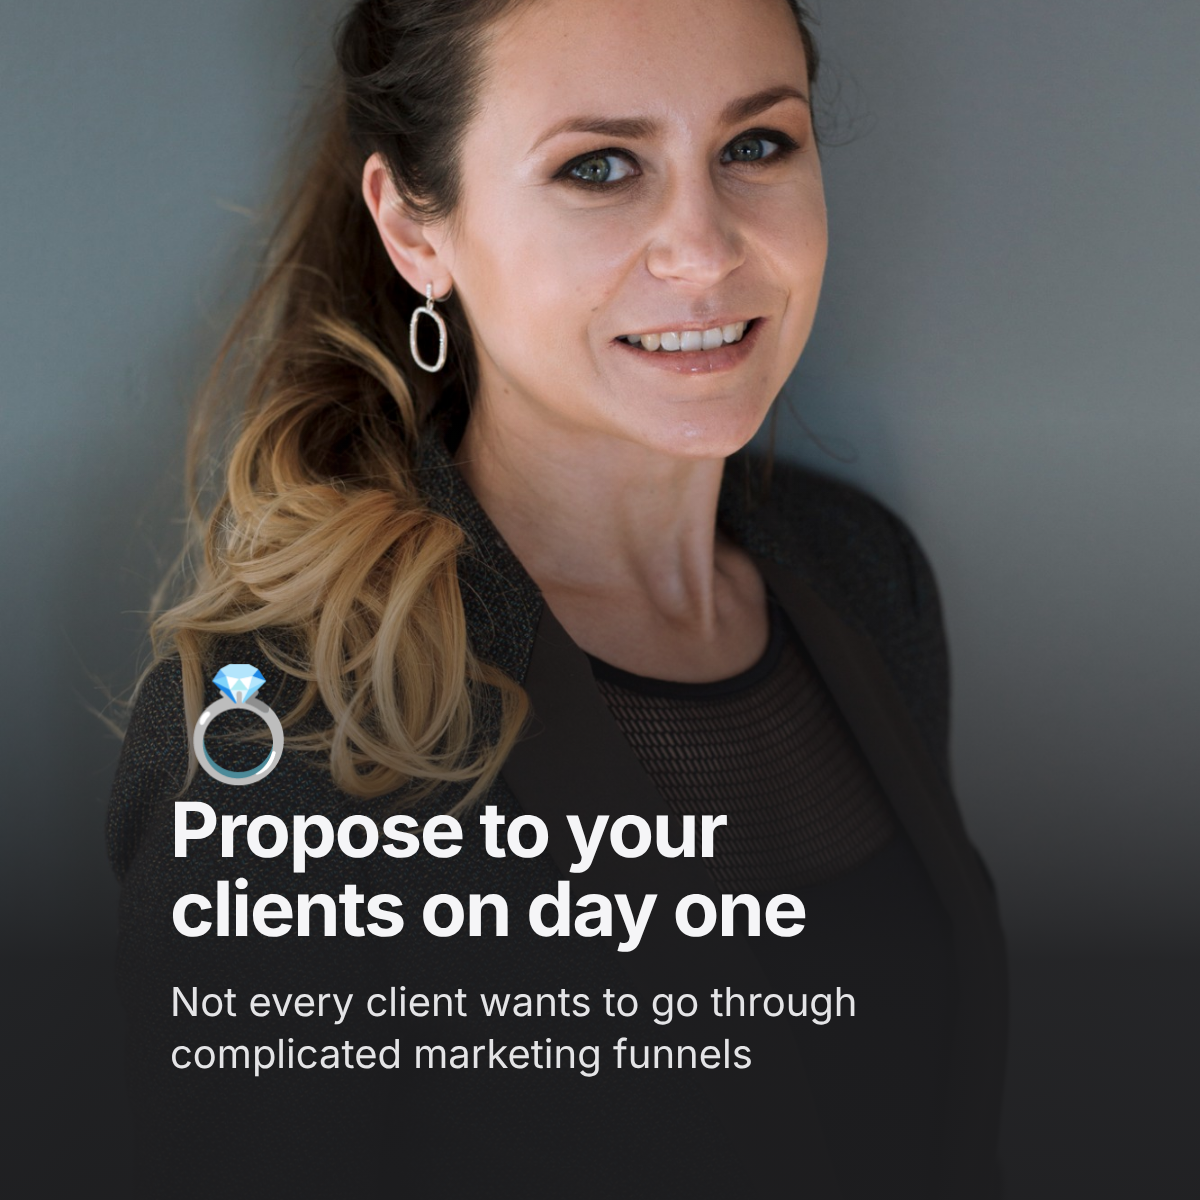
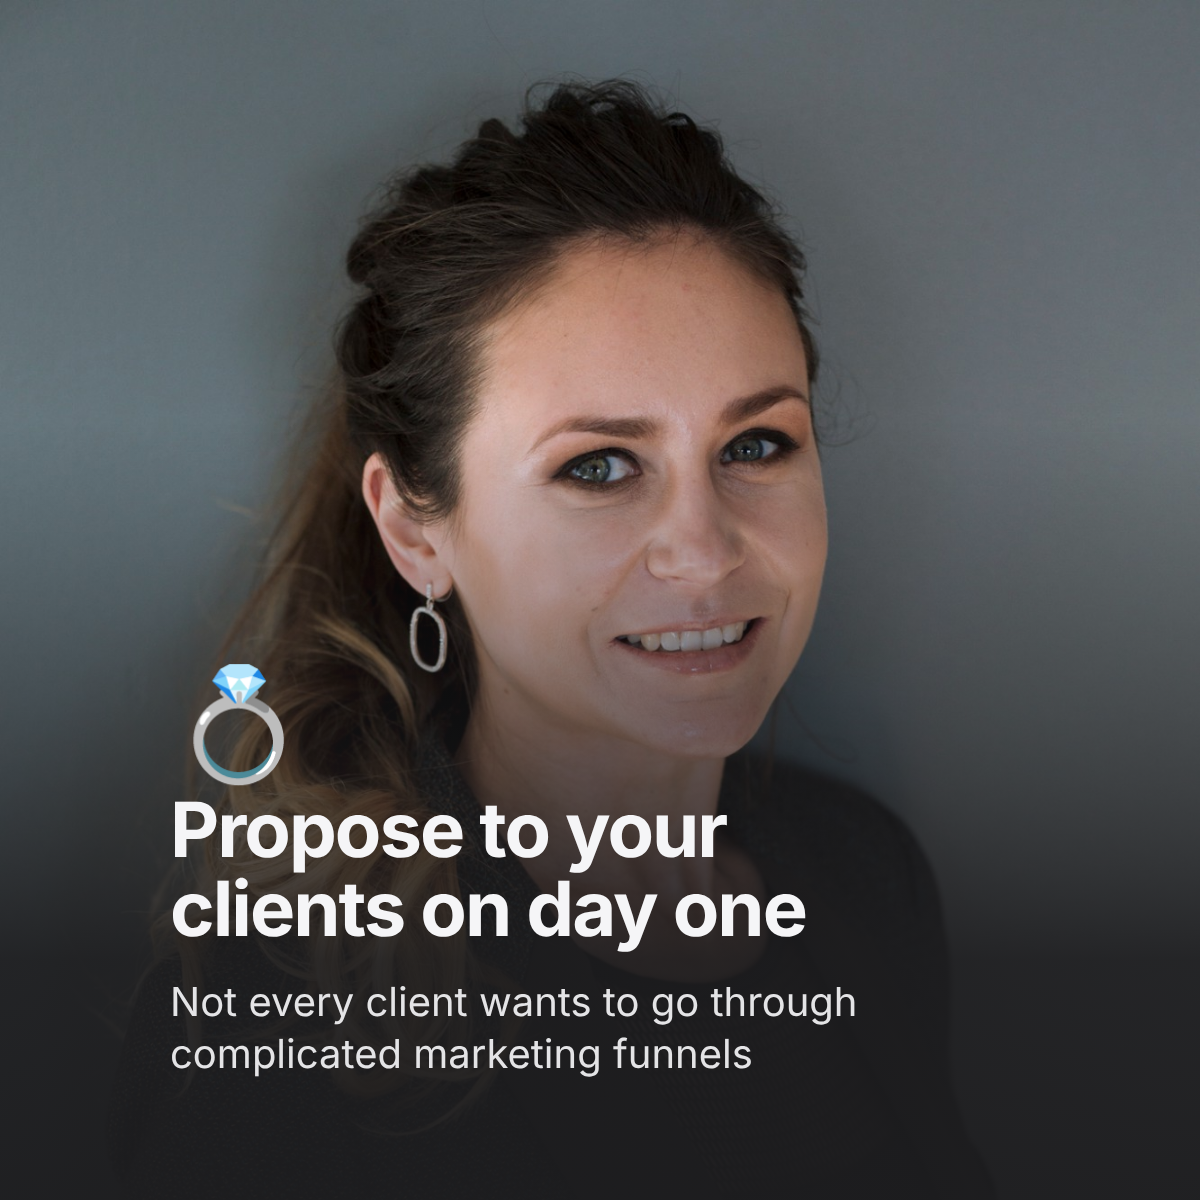
LinkedIn cover: photo aligned to top so the head is fully visible
Claude-Session: https://claude.ai/code/session_01BfJAaEZY2EfD7nu2Y1Q1pB

diff --git a/brand/zimols/render.js b/brand/zimols/render.js
@@ -60,7 +60,7 @@ function slide(s) {
     if (s.centerBottom) {
       const L = s.leftText;
       const emo = s.emoji ? `<div style="font-family:'Noto Color Emoji',sans-serif;font-size:${L ? 110 : 150}px;line-height:1;margin-bottom:${L ? 10 : 24}px">${s.emoji}</div>` : '';
-      return `<div class="s bg-ink"><img class="photo" style="object-position:50% ${L ? 50 : 18}%" src="${img}"><div style="position:absolute;inset:0;background:linear-gradient(to bottom,rgba(29,29,31,0) 35%,rgba(29,29,31,.92) 80%,rgba(29,29,31,.97) 100%)"></div>
+      return `<div class="s bg-ink"><img class="photo" style="object-position:50% ${L ? 0 : 18}%" src="${img}"><div style="position:absolute;inset:0;background:linear-gradient(to bottom,rgba(29,29,31,0) 35%,rgba(29,29,31,.92) 80%,rgba(29,29,31,.97) 100%)"></div>
       <div class="pad" style="left:170px!important;right:170px!important;top:auto!important;bottom:120px!important;text-align:${L ? 'left' : 'center'}">${emo}<div class="display" style="font-size:${s.headlineSize || 76}px;text-align:${L ? 'left' : 'center'}">${s.headline.join('<br>')}</div><div class="sub" style="margin-top:28px;font-size:40px;text-align:${L ? 'left' : 'center'}">${s.sub}</div></div></div>`;
     }
     const imgStyle = box ? ` style="left:${box.left}px;top:${box.top || 0}px;width:${box.width}px;height:${box.height}px;object-fit:cover;-webkit-mask-image:linear-gradient(to right,transparent 0%,#000 30%);mask-image:linear-gradient(to right,transparent 0%,#000 30%)"` : (sh ? ` style="top:${sh}px;height:${F.h - sh}px${fade}"` : '');
